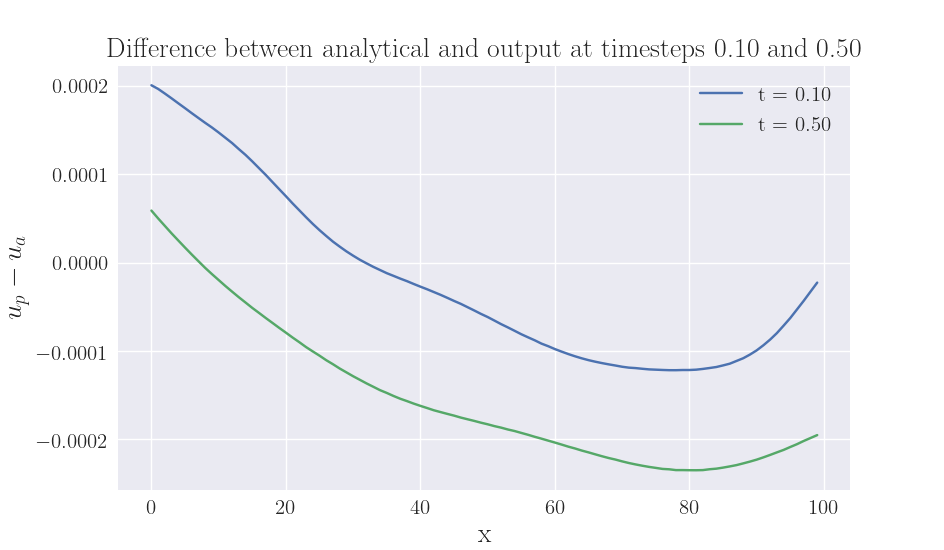
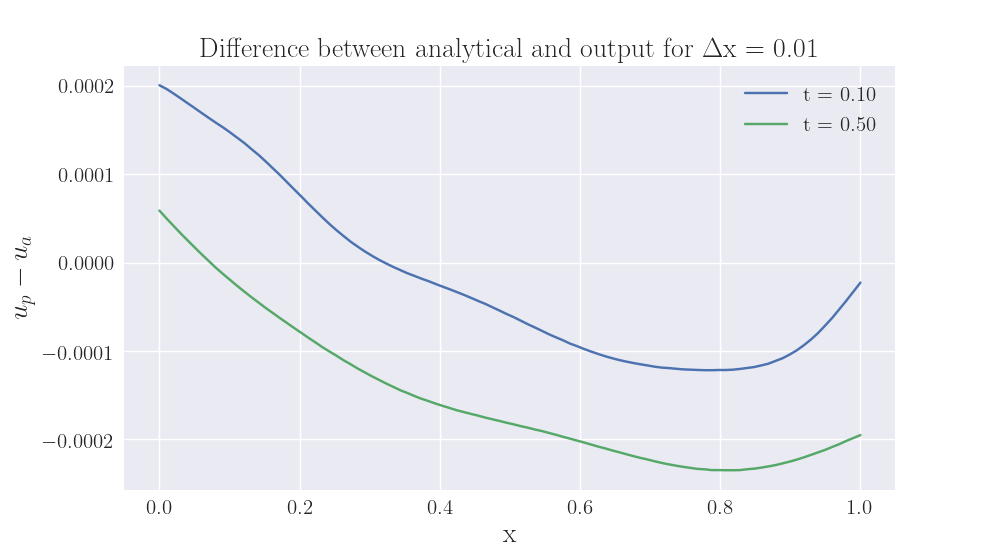
report

diff --git a/project3/code/plot.py b/project3/code/plot.py
@@ -246,10 +246,9 @@ def NN_diffusion_error_timesteps(model, args):
     uexact2 = u_exact(xa, t2).reshape(-1, 1)
 
     fig, ax = plt.subplots()
-    ax.plot(upred1 - uexact1, label='t = %.2f' %(t1))
-    ax.plot(upred2 - uexact2, label='t = %.2f' %(t2))
-    title = r'Difference between analytical and output at timesteps %.2f and %.2f'\
-         % (t1, t2)
+    ax.plot(xa, upred1 - uexact1, label='t = %.2f' %(t1))
+    ax.plot(xa, upred2 - uexact2, label='t = %.2f' %(t2))
+    title = r'Difference between analytical and output for $\Delta$x = 0.01'
     xlabel = 'x'
     ylabel = r'$u_{p} - u_{a}$'
     set_ax_info(ax, xlabel, ylabel, title=title)
